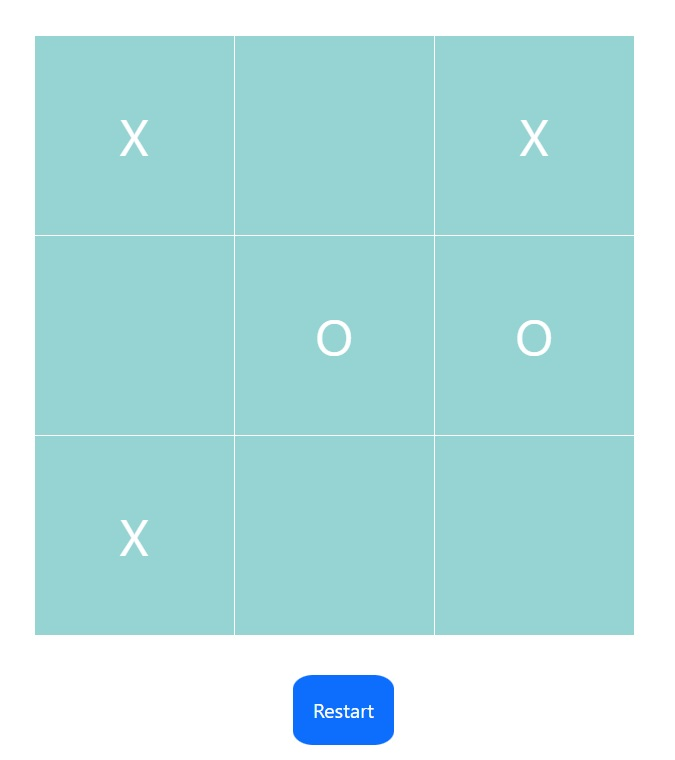
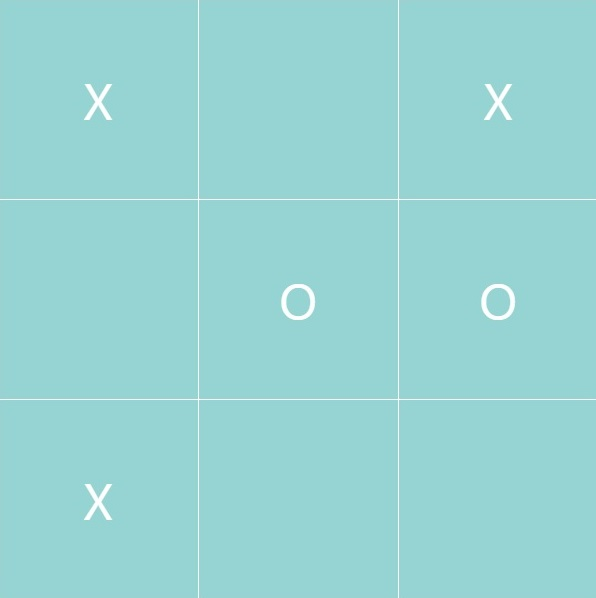
minor update
-updated tictactoe.jpg
-updated index.html

diff --git a/index.html b/index.html
@@ -8,10 +8,20 @@
 	<meta name="viewport" content="width=device-width, initial-scale = 1">	
 	<link href="https://cdn.jsdelivr.net/npm/bootstrap@5.2.1/dist/css/bootstrap.min.css" rel="stylesheet">
   	<script src="https://cdn.jsdelivr.net/npm/bootstrap@5.2.1/dist/js/bootstrap.bundle.min.js"></script>
+
+	<style>
+
+		.header-gradient {
+			background: linear-gradient(90deg, rgba(2,0,36,1) 0%, rgba(9,49,121,1) 47%, rgba(0,212,255,1) 100%);
+			filter: drop-shadow(0px 10px 20px #323232);
+		}
+
+	</style>
+
 </head>
 <body>
 	
-	<div class = "container-fluid p-5 bg-primary text-white text-center">
+	<div class = "container-fluid p-5 text-white text-center header-gradient">
 		<h1> Peter Smith</h1>
 		<p> Welcome to my homepage!</p>
 	</div>
@@ -19,27 +29,28 @@
 
 	<div class = "container mt-5 justify-content-end">
 		<div class = "row h-100 text-center">
-			<div class = "col">
-				<br>
+			<div class = "col mt-5">
 				<br>
 				<p style = "font-size:20px;"> My name is Peter Smith and I am a Computer Science major in my final semester at Roanoke College. My hobbies include competitive running, amateur filmmaking, and drawing.</p>
 			</div>
 			<div class = "col h-100">
-				<img src = "http://pmsmith0491.github.io/res/peter.jpg" alt = "Peter Smith" style = "width:50%; height:50%; object-fit:cover; border-radius:10%;">
+				<img src = "http://pmsmith0491.github.io/res/peter.jpg" alt = "Peter Smith" style = "width:60%; height:60%; object-fit:cover; border-radius:10%;">
 			</div>
 		</div>
 	</div>
 
-	<div class = "row h-100 mt-5 text-center bg-primary text-white">
+	<div class = "row h-100 mt-5 text-center header-gradient text-white">
 			<p style = "font-size: 30px;"> Here are some of my personal projects: </p>
 	</div>
 
 
-	<div class ="container mt-5">
+	<div class ="container mt-5 mb-5">
 		<div class = "row text-center">
-			<div class = "col-sm-4">
-				<img src = "https://pmsmith.github.io/res/tictactoe.PNG" alt = "TicTacToe" width: "width" height: "height">
-				<a href = "http://pmsmith0491.github.io/tictactoe.html"><img src = "https://pmsmith.github.io/res/tictactoe.PNG" alt = "TicTacToe" width: "width" height: "height"></a>   
+				
+			<div class = "col-sm-4" style = "border:10px solid black; border-radius:20%;" >
+				<a href = "http://pmsmith0491.github.io/tictactoe.html">
+					<img src = "http://pmsmith0491.github.io/res/tictactoe.jpg" style = "width:50%;">
+				</a>
 			</div>
 			<div class = "col-sm-4">
 				<a href = "http://pmsmith0491.github.io/clock.html">Clock</a>			
